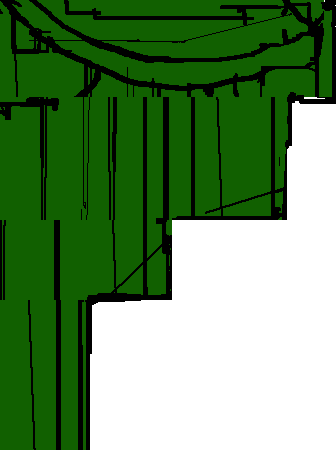
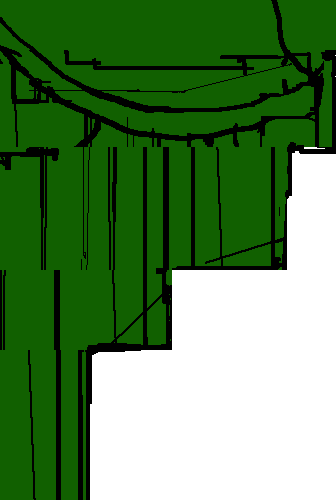
Account for native window decorations/fullscreen

diff --git a/src/css/mspaThemes.scss b/src/css/mspaThemes.scss
@@ -198,16 +198,16 @@
 			url(assets://archive/collection/themes/sbahjbigman.png) 82% -10px no-repeat fixed,
 			url(assets://archive/collection/themes/sbahjbottomleft.png) left bottom no-repeat fixed,
 			url(assets://archive/collection/themes/sbahjbottomright.png) right bottom no-repeat fixed,
-			url(assets://archive/collection/themes/sbahjtopleft.png) left 50px no-repeat fixed,
-			url(assets://archive/collection/themes/sbahjtopright.png) right 50px no-repeat fixed,
+			url(assets://archive/collection/themes/sbahjtopleft.png) left top no-repeat fixed,
+			url(assets://archive/collection/themes/sbahjtopright.png) right top no-repeat fixed,
 			url(assets://archive/collection/themes/sbahjbottom.png) center bottom repeat-x fixed,
 			url(assets://archive/collection/themes/sbahjright.png) right center repeat-y fixed,
 			url(assets://archive/collection/themes/sbahjleft.png) left center repeat-y fixed,
 			url(assets://archive/collection/themes/sbahjsideleft.png) left center repeat-y fixed,
 			url(assets://archive/collection/themes/sbahjsideright.png) right center repeat-y fixed,   
-			url(assets://archive/collection/themes/sbahjseamleft.png) left 50px no-repeat fixed,
-			url(assets://archive/collection/themes/sbahjseamright.png) right 50px no-repeat fixed,
-			url(assets://archive/collection/themes/sbahjtop.png) center 50px repeat-x fixed,
+			url(assets://archive/collection/themes/sbahjseamleft.png) left top no-repeat fixed,
+			url(assets://archive/collection/themes/sbahjseamright.png) right top no-repeat fixed,
+			url(assets://archive/collection/themes/sbahjtop.png) center top repeat-x fixed,
 			url(assets://archive/collection/themes/sbahjbg.png) left top repeat fixed;
 		--system-skycolor: #fff;
 
@@ -448,8 +448,8 @@
 		--page-links: #2ed73a;
 
 		--system-background:    
-			url(assets://archive/collection/themes/homosuckbg_left.png) left 50px no-repeat fixed,
-			url(assets://archive/collection/themes/homosuckbg_right.png) right 50px no-repeat fixed;
+			url(assets://archive/collection/themes/homosuckbg_left.png) left top no-repeat fixed,
+			url(assets://archive/collection/themes/homosuckbg_right.png) right top no-repeat fixed;
 		--system-skycolor: #042300;
 
 		--ctx-bg: #073c00;
